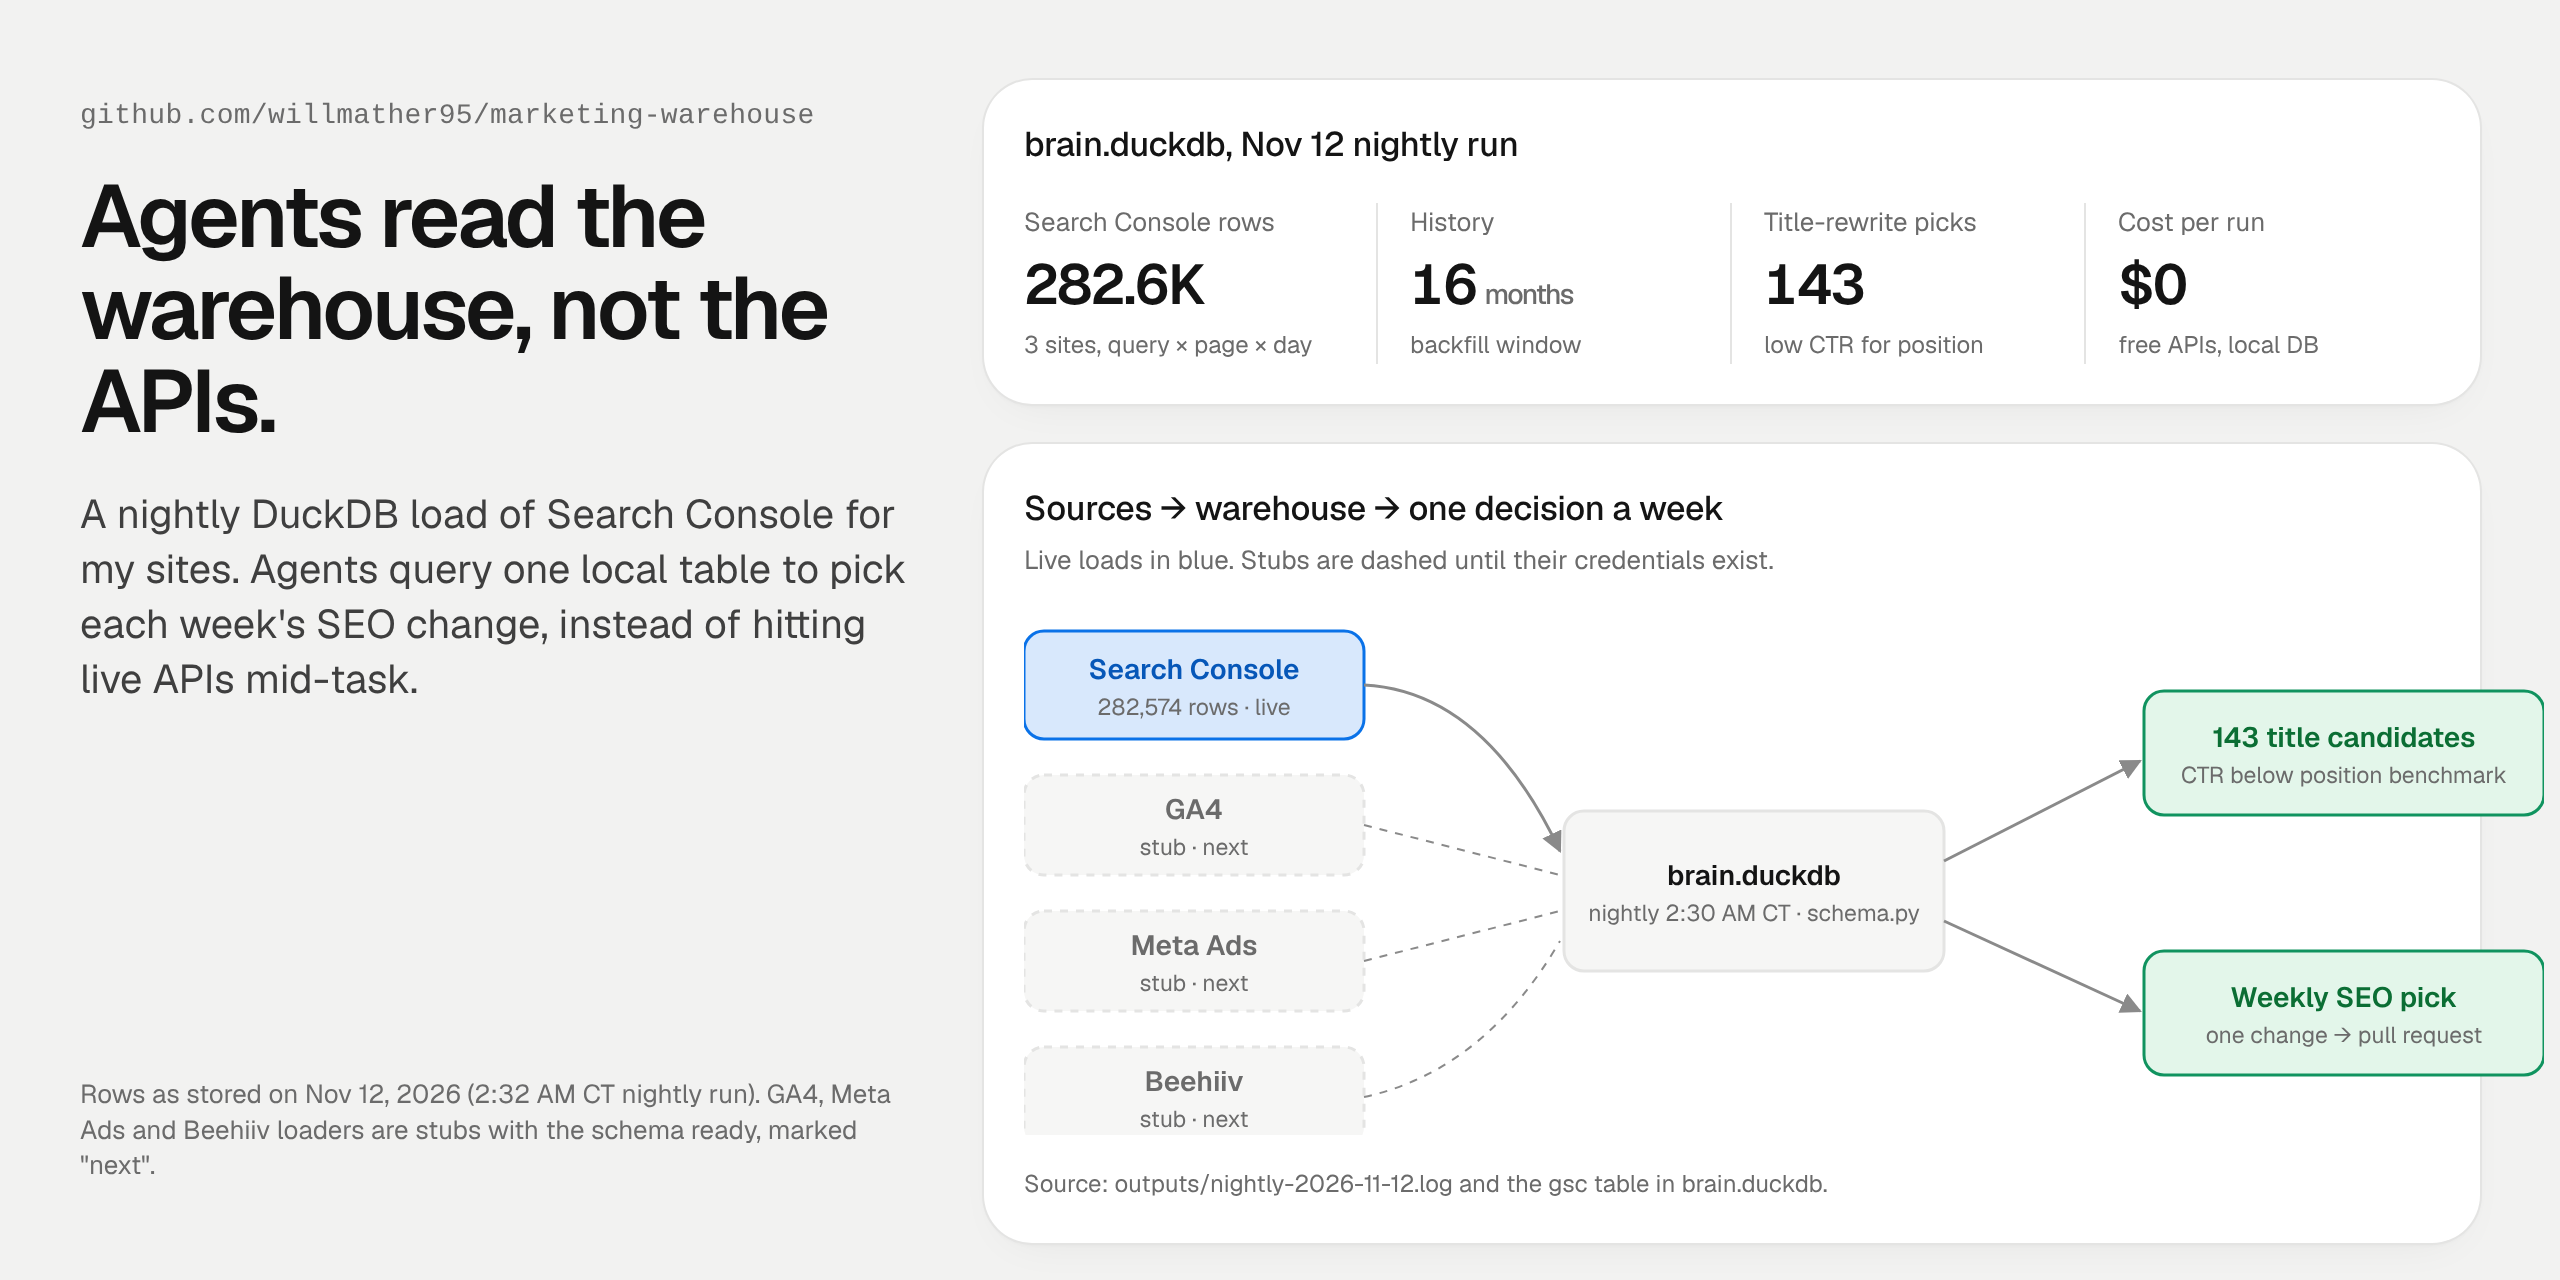
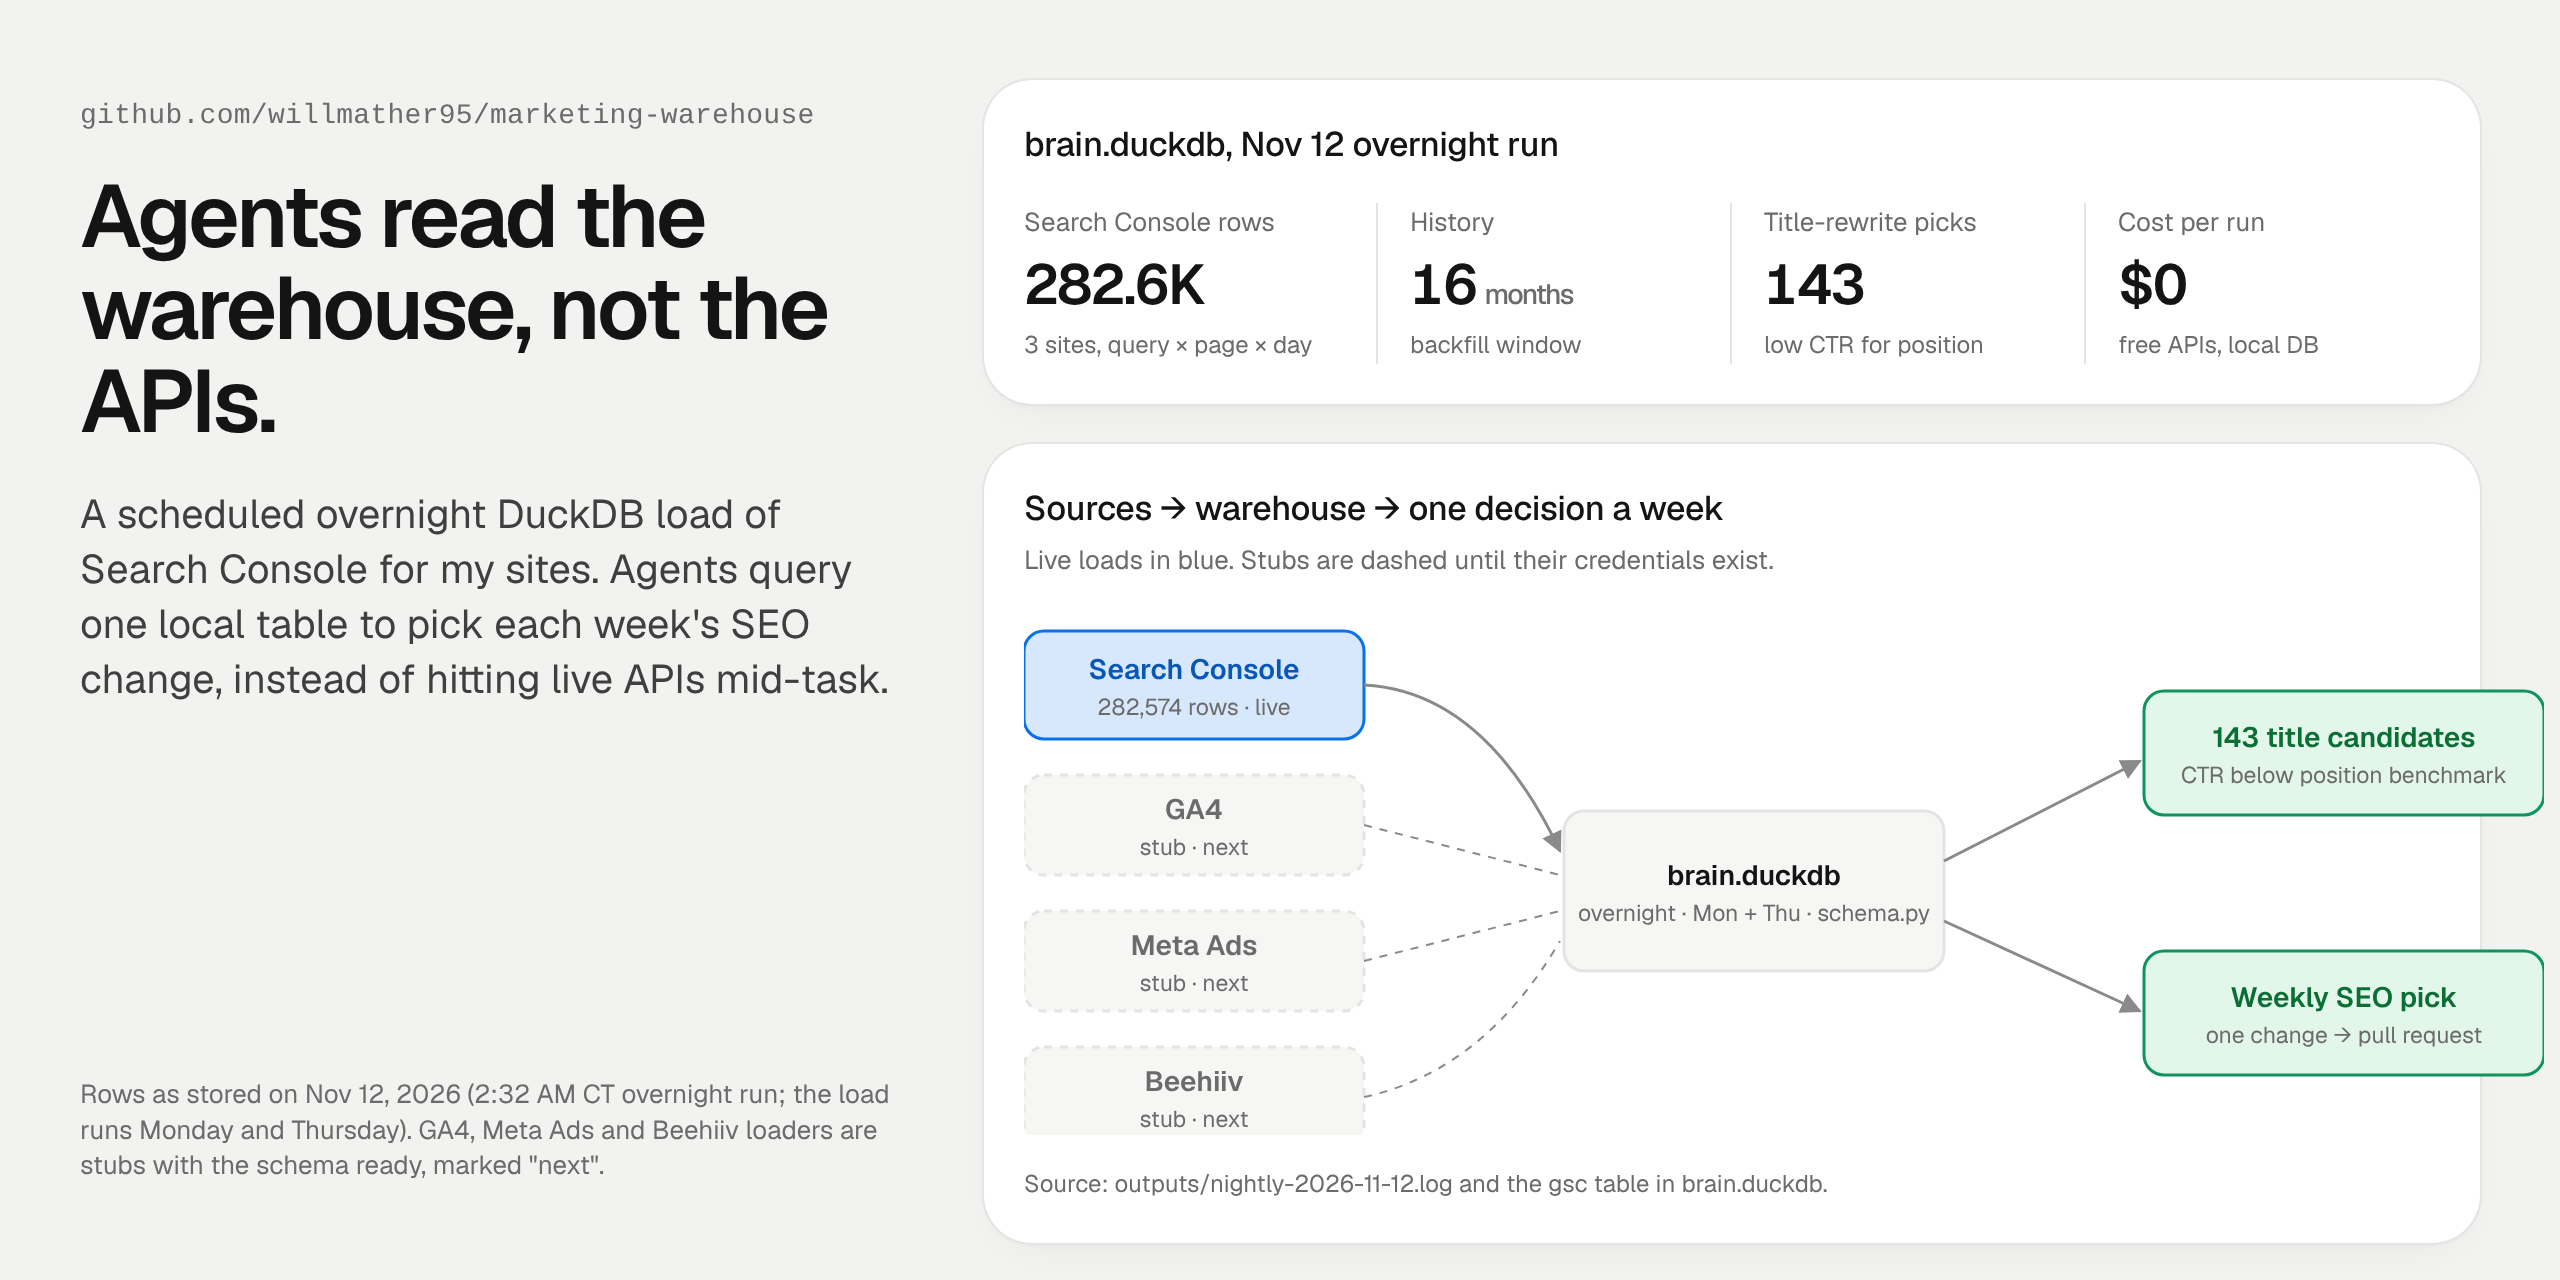
README + hero: the load runs overnight Monday and Thursday, not every night

diff --git a/README.md b/README.md
@@ -2,15 +2,15 @@
 
 ![Agents read the warehouse, not the APIs: 282.6K Search Console rows, 16 months, 143 title-rewrite picks, $0 per run](docs/hero.png)
 
-A nightly DuckDB load of Google Search Console for my own sites. My AI agents query one local table to pick each week's SEO change, so they don't hit live APIs in the middle of a task, burn quota, or quote different numbers.
+A scheduled overnight DuckDB load of Google Search Console for my own sites (it runs Monday and Thursday). My AI agents query one local table to pick each week's SEO change, so they don't hit live APIs in the middle of a task, burn quota, or quote different numbers.
 
-**What's live and what isn't:** the Search Console loader runs every night in production. GA4, Meta Ads and Beehiiv loaders are **stubs**. The nightly run calls them and they print one line, with their tables designed and their credentials listed. They're next, not done.
+**What's live and what isn't:** the Search Console loader runs on that schedule in production. GA4, Meta Ads and Beehiiv loaders are **stubs**. Each run calls them and they print one line, with their tables designed and their credentials listed. They're next, not done.
 
 ## What it does
 
 | | |
 |---|---|
-| **Loads** | Search Console `date × page × query` (clicks, impressions, CTR, position) for every site in `sites.json`. The first run backfills 16 months. Each night after that re-pulls only the last 3 days, because GSC revises recent data. |
+| **Loads** | Search Console `date × page × query` (clicks, impressions, CTR, position) for every site in `sites.json`. The first run backfills 16 months. Each run after that re-pulls only the last 3 days, because GSC revises recent data. |
 | **Stores** | One DuckDB file: `gsc_page_query` and `gsc_load_meta` (range and row count per site). There's no server and nothing to host. |
 | **Decides** | `title_candidates.py` flags pages ranking 1–10 whose CTR is below the position benchmark. Those are the cheapest wins: a better title, not a new page. |
 | **Checks itself** | `check_freshness.py` fails if any site is more than 4 days stale or its row count drops. |
@@ -27,7 +27,7 @@ GA4 · Meta · Beehiiv ─ stubs (next) ─┘
 - **Idempotent.** Each chunk deletes its date range, then inserts it, so reruns never double count (tested).
 - **Paged and polite.** It requests 25,000 rows a page, in month-sized windows, with backoff on 429 and 5xx errors.
 
-## Results (my sites, Nov 12, 2026 nightly run)
+## Results (my sites, Nov 12, 2026 overnight run)
 
 | | |
 |---|---|
